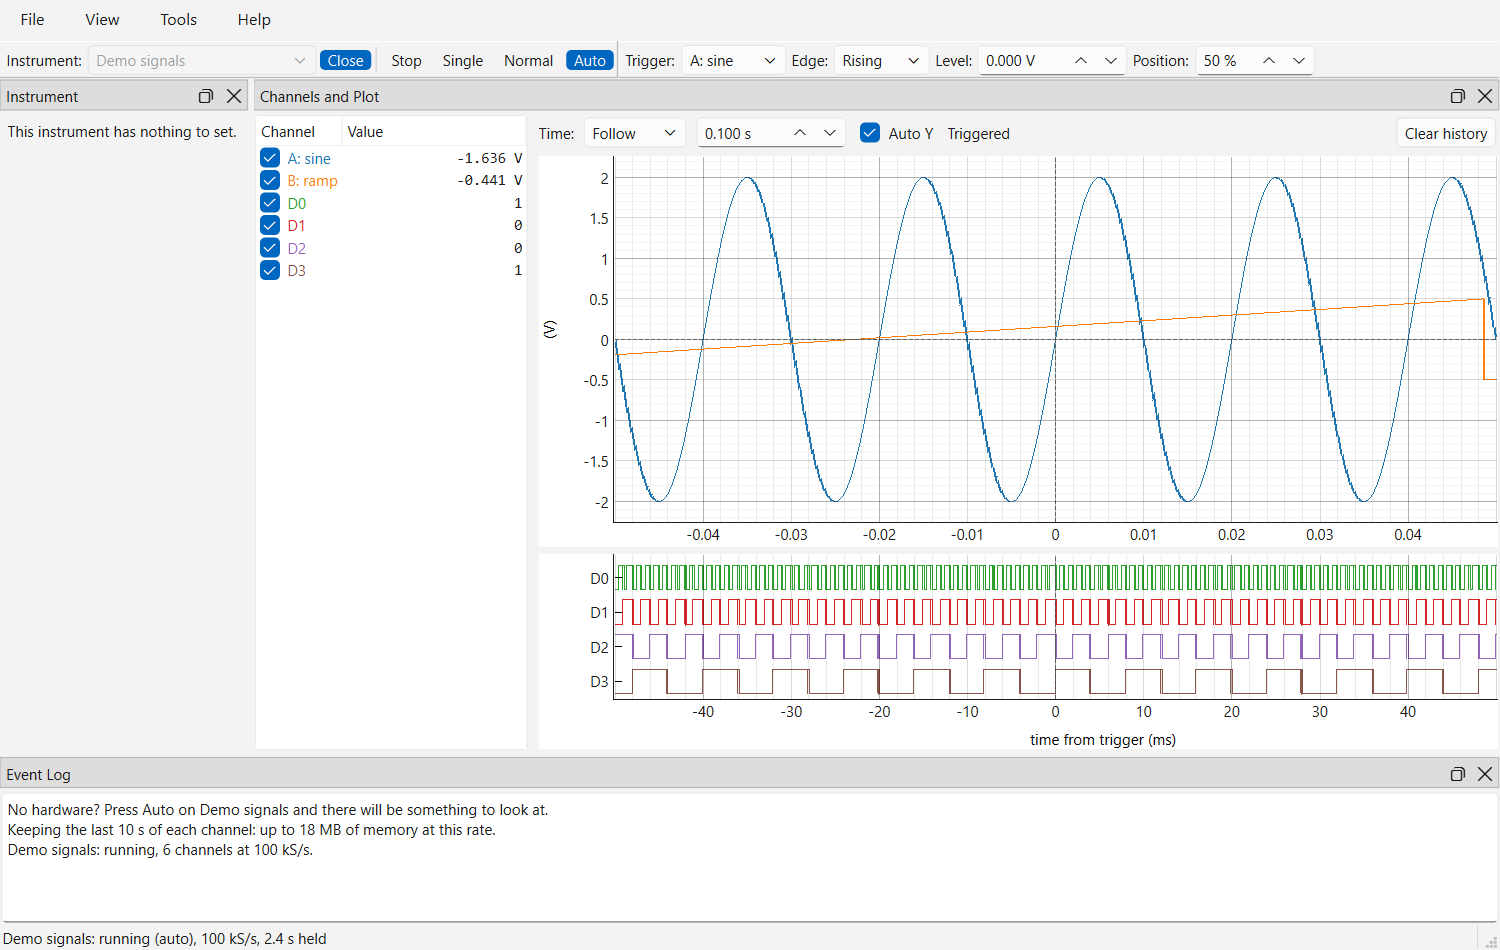
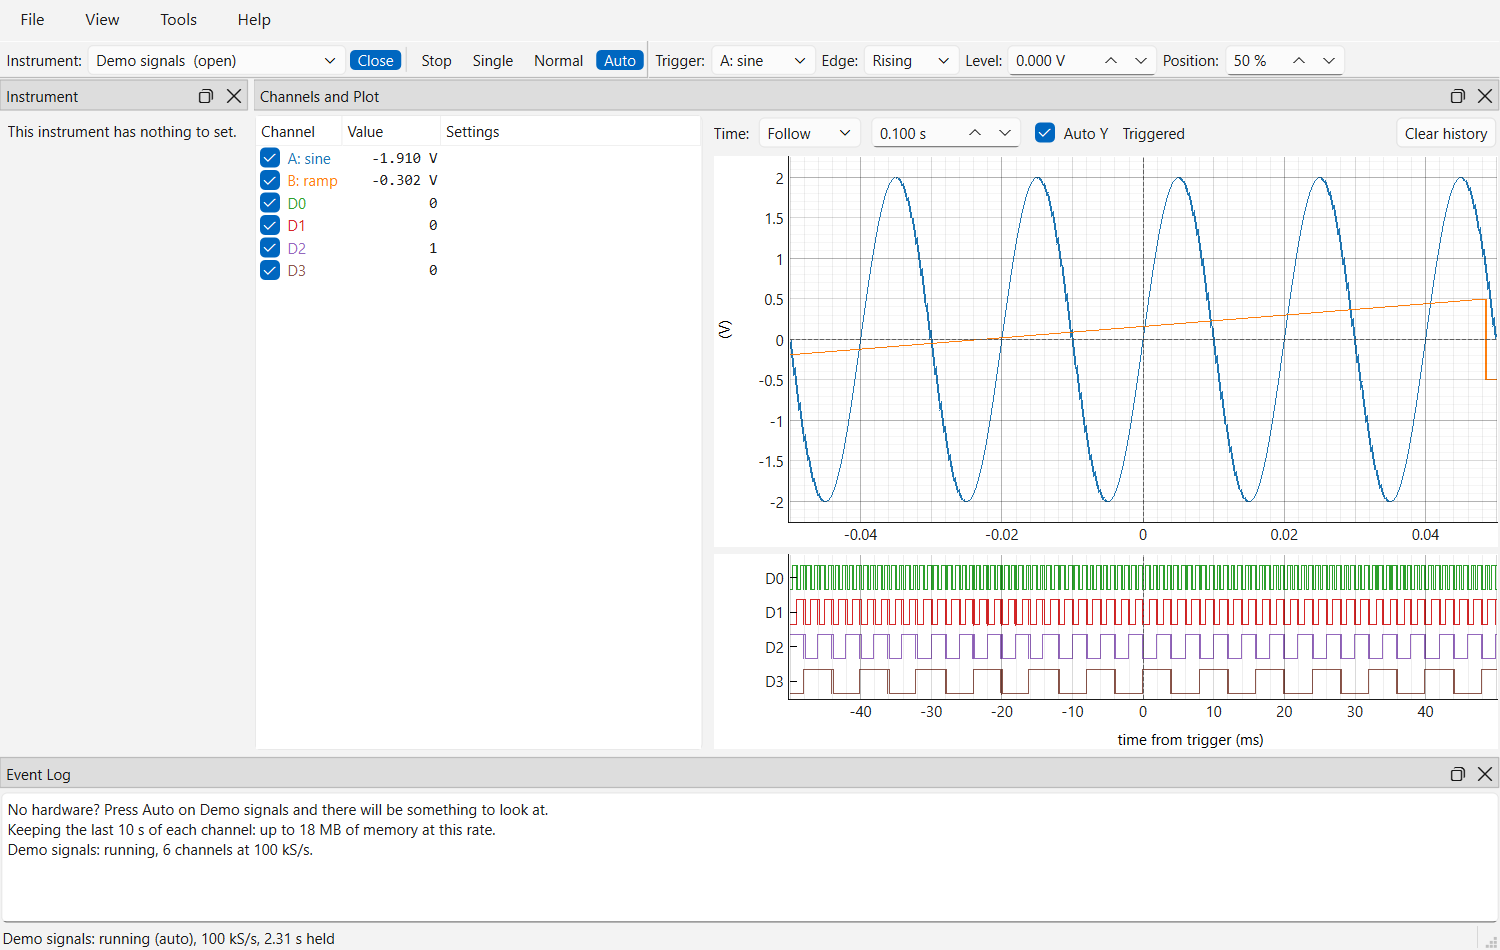
PyPI metadata: the summary the pages open with, Alpha, keywords for the Rigol; a new screenshot

diff --git a/tests/test_readme.py b/tests/test_readme.py
@@ -19,6 +19,8 @@ import re
 import tomllib
 from pathlib import Path
 
+import pytest
+
 ROOT = Path(__file__).resolve().parent.parent
 README = (ROOT / "README.md").read_text(encoding="utf-8")
 PROJECT = tomllib.loads((ROOT / "pyproject.toml").read_text(encoding="utf-8"))["project"]
@@ -129,3 +131,20 @@ def test_every_instrument_in_the_readme_is_on_the_pypi_page():
         r"^- \*\*([^*]+)\*\*", README.split("## Instruments")[1].split("##")[0], re.M
     )
     assert named and all(f"**{name}**" in PYPI for name in named)
+
+
+def test_every_classifier_is_one_pypi_knows():
+    """PyPI refuses an upload with a classifier it does not know, and the
+    upload is the last step of a release: better found here."""
+    import tomllib
+
+    trove = pytest.importorskip("trove_classifiers")
+    project = tomllib.loads((ROOT / "pyproject.toml").read_text(encoding="utf-8"))["project"]
+    assert [c for c in project["classifiers"] if c not in trove.classifiers] == []
+
+
+def test_the_summary_pypi_shows_is_how_the_pages_open():
+    import tomllib
+
+    project = tomllib.loads((ROOT / "pyproject.toml").read_text(encoding="utf-8"))["project"]
+    assert project["description"] in README and project["description"] in PYPI

diff --git a/pyscopegui/ui/help_menu.py b/pyscopegui/ui/help_menu.py
@@ -281,7 +281,8 @@ class AboutDialog(QDialog):
         self.setWindowTitle(f"About {APP_NAME}")
         heading = QLabel(
             f"<h3>{APP_NAME} {__version__}</h3>"
-            "<p>Oscilloscopes and logic analysers in one time-aligned view.</p>"
+            "<p>Oscilloscopes and logic analysers in one view: analog and logic channels "
+            "from separate instruments, on one time axis.</p>"
         )
         heading.setTextFormat(Qt.RichText)
         details = QPlainTextEdit(environment_report())

diff --git a/pyscopegui/__init__.py b/pyscopegui/__init__.py
@@ -1,6 +1,6 @@
 # SPDX-License-Identifier: Apache-2.0
 # SPDX-FileCopyrightText: 2026 davhodg
-"""pyscopegui — oscilloscopes and logic analysers in one time-aligned view."""
+"""pyscopegui — oscilloscopes and logic analysers in one view, on one time axis."""
 
 __version__ = "0.1.0"
 APP_NAME = "pyscopegui"  # single place to change the display name
